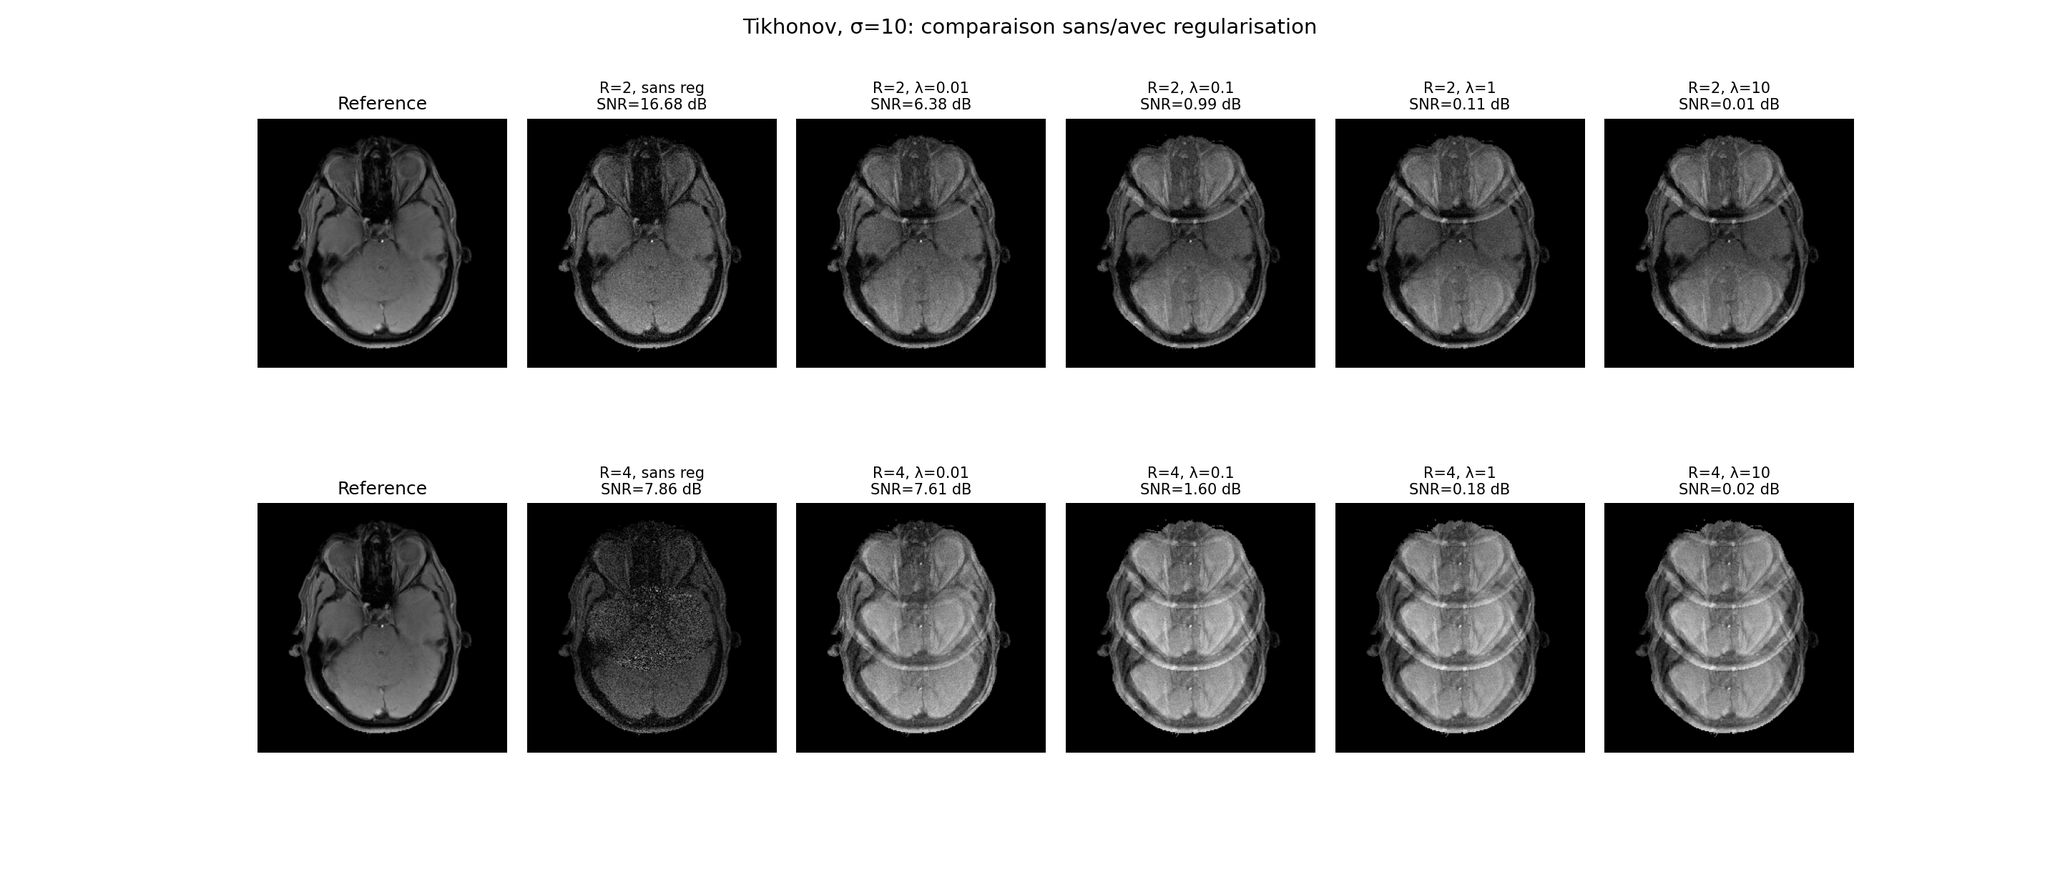
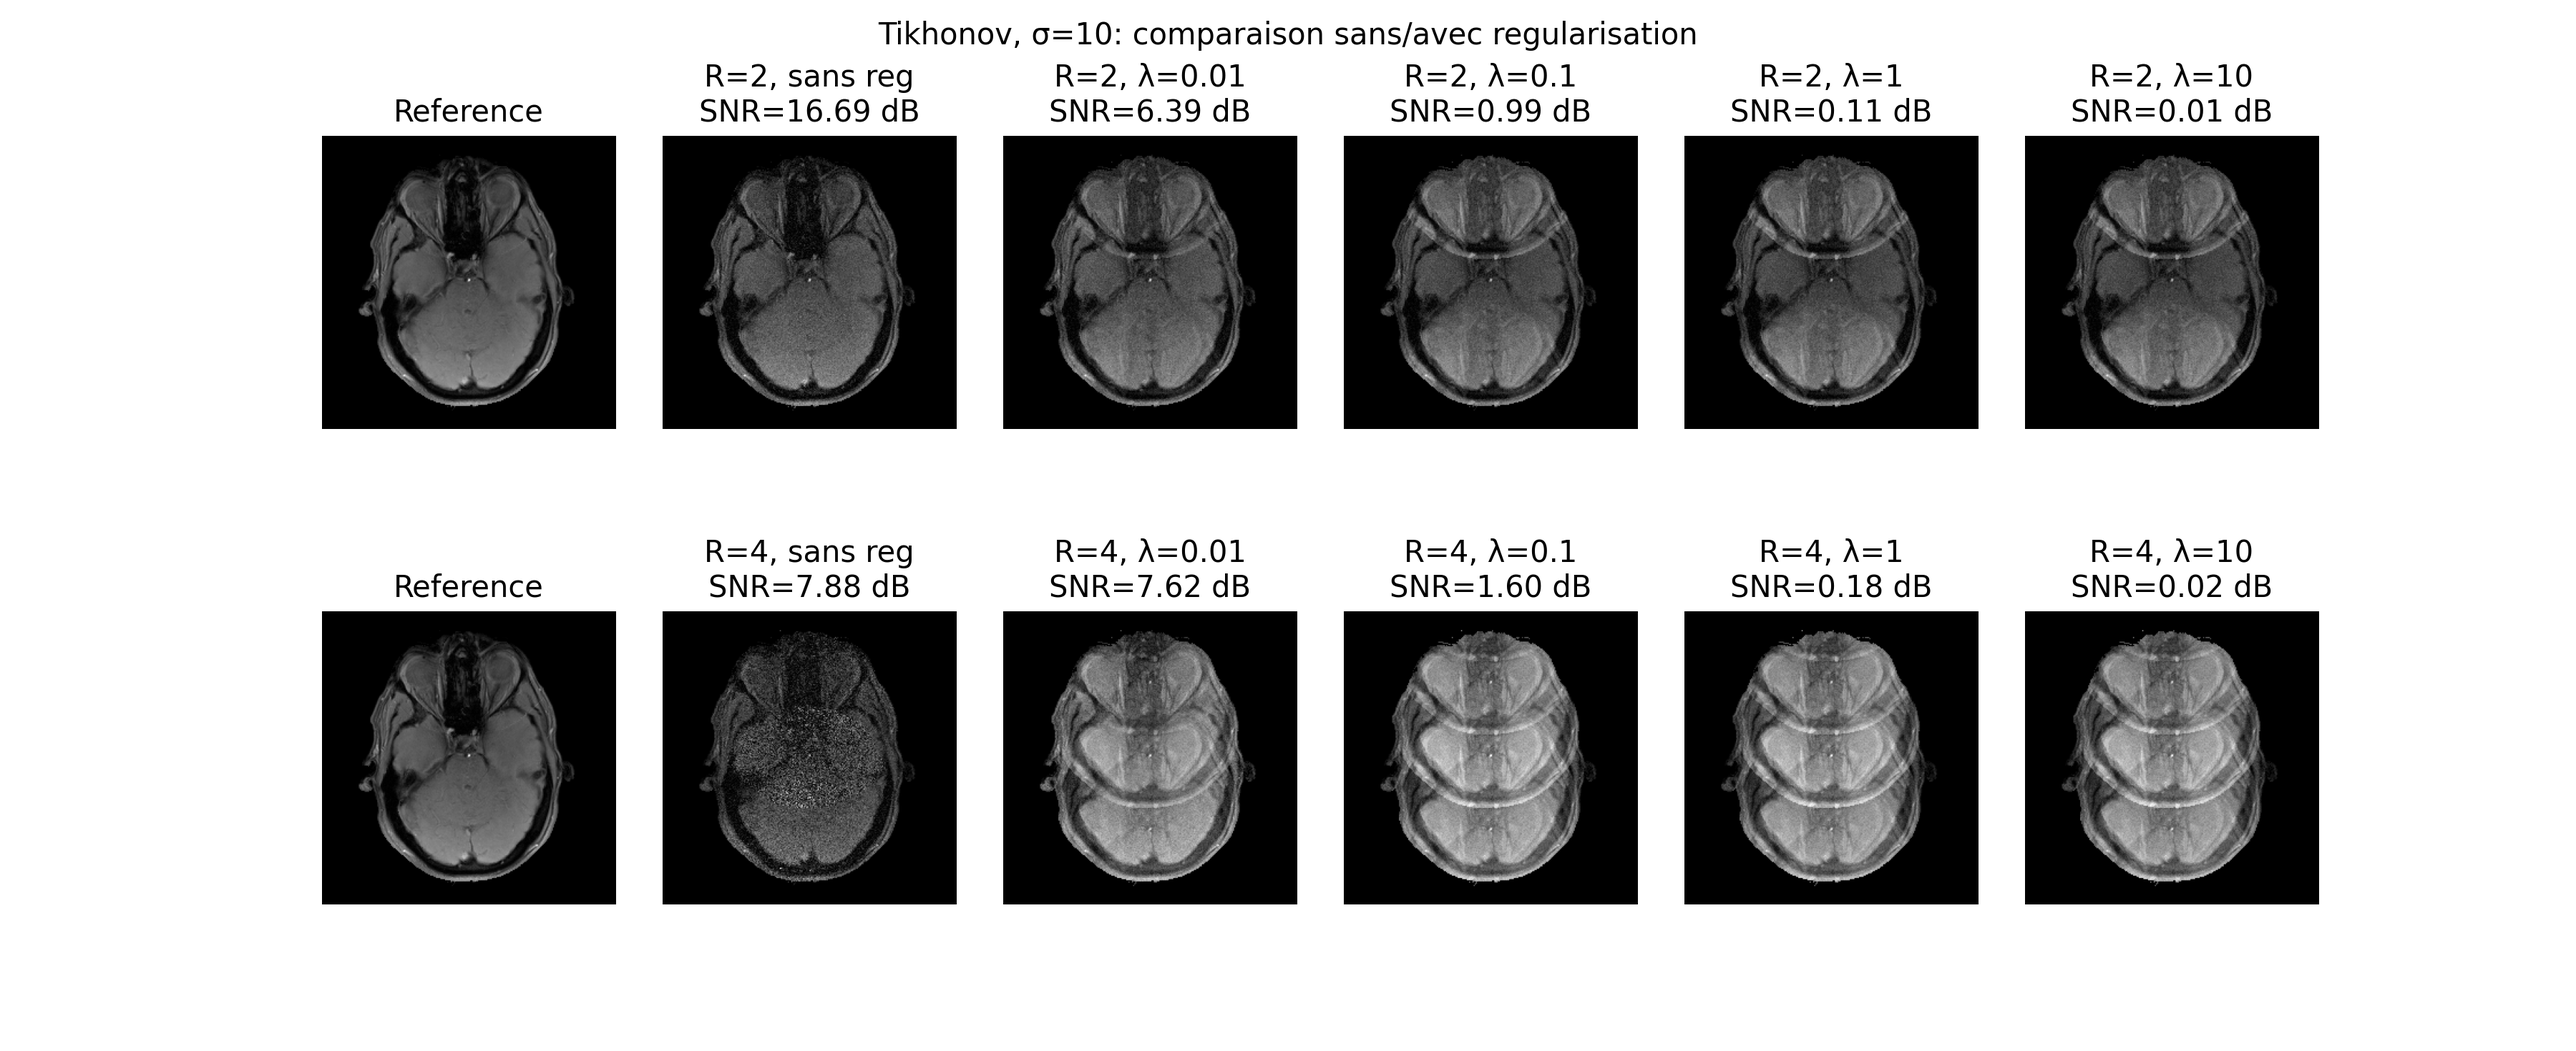
q4 bis

Changed region(s): [[0.125, 0.0, 0.9062, 0.4325], [0.125, 0.4943, 0.9062, 0.865]]

diff --git a/main.py b/main.py
@@ -36,17 +36,17 @@ R = 2
 noise_levels = [5, 10, 20, 30]
 results_q1 = {}
 
-fig, axes = plt.subplots(1, len(noise_levels), figsize=(15, 4))
+fig, axes = plt.subplots(1, len(noise_levels), figsize=(18, 5))
 
 for idx, sigma in enumerate(noise_levels):
     reduced_FoV = pMRI_simulator(S, ref, sigma, R)
     results_q1[sigma] = reduced_FoV
     
     im = axes[idx].imshow(np.abs(reduced_FoV[:, :, 0]), cmap='gray')
-    axes[idx].set_title(f'σ = {sigma}')
+    axes[idx].set_title(f'σ = {sigma}', fontsize=20, pad=10)
     axes[idx].axis('off')
 
-plt.suptitle('Différents niveaux de bruit (R=2)', fontsize=14)
+plt.suptitle('Différents niveaux de bruit (R=2)', fontsize=20)
 plt.tight_layout()
 plt.savefig('q1_reduced_FoV_noise_comparison.png', dpi=150, bbox_inches='tight')
 
@@ -62,23 +62,23 @@ plt.savefig('q1_reduced_FoV_noise_comparison.png', dpi=150, bbox_inches='tight')
 R_q2 = 4
 results_q2 = {}
 
-fig, axes = plt.subplots(2, len(noise_levels), figsize=(18, 8.5))
+fig, axes = plt.subplots(2, len(noise_levels), figsize=(20, 9.5))
 
 for idx, sigma in enumerate(noise_levels):
-     reduced_FoV_r4 = pMRI_simulator(S, ref, sigma, R_q2)
-     results_q2[sigma] = reduced_FoV_r4
+    reduced_FoV_r4 = pMRI_simulator(S, ref, sigma, R_q2)
+    results_q2[sigma] = reduced_FoV_r4
 
-     # Top row: R=2 (from question 1)
-     im_r2 = axes[0, idx].imshow(np.abs(results_q1[sigma][:, :, 0]), cmap='gray')
-     axes[0, idx].set_title(f'R=2, σ={sigma}')
-     axes[0, idx].axis('off')
+    # Top row: R=2 (from question 1)
+    im_r2 = axes[0, idx].imshow(np.abs(results_q1[sigma][:, :, 0]), cmap='gray')
+    axes[0, idx].set_title(f'R=2, σ={sigma}', fontsize=20, pad=10)
+    axes[0, idx].axis('off')
 
-     # Bottom row: R=4
-     im_r4 = axes[1, idx].imshow(np.abs(reduced_FoV_r4[:, :, 0]), cmap='gray')
-     axes[1, idx].set_title(f'R=4, σ={sigma}')
-     axes[1, idx].axis('off')
+    # Bottom row: R=4
+    im_r4 = axes[1, idx].imshow(np.abs(reduced_FoV_r4[:, :, 0]), cmap='gray')
+    axes[1, idx].set_title(f'R=4, σ={sigma}', fontsize=20, pad=10)
+    axes[1, idx].axis('off')
 
-plt.suptitle('Comparaison R=2 vs R=4', fontsize=14)
+plt.suptitle('Comparaison R=2 vs R=4', fontsize=20)
 plt.tight_layout()
 plt.savefig('q2_r2_vs_r4_noise_comparison.png', dpi=150, bbox_inches='tight')
 
@@ -93,7 +93,7 @@ Nc = S.shape[2]
 snr_r2 = []
 snr_r4 = []
 
-fig, axes = plt.subplots(2, len(noise_levels), figsize=(16, 7))
+fig, axes = plt.subplots(2, len(noise_levels), figsize=(20, 9.5))
 
 for idx, sigma in enumerate(noise_levels):
     psi = (sigma ** 2) * np.eye(Nc)
@@ -107,15 +107,15 @@ for idx, sigma in enumerate(noise_levels):
     snr_r4.append(snr4)
 
     axes[0, idx].imshow(np.abs(reconstructed_r2), cmap='gray')
-    axes[0, idx].set_title(f'R=2, σ={sigma}\nSNR={snr2:.2f} dB', fontsize=11, pad=6)
+    axes[0, idx].set_title(f'R=2, σ={sigma}\nSNR={snr2:.2f} dB', fontsize=22, pad=12)
     axes[0, idx].axis('off')
 
     axes[1, idx].imshow(np.abs(reconstructed_r4), cmap='gray')
-    axes[1, idx].set_title(f'R=4, σ={sigma}\nSNR={snr4:.2f} dB', fontsize=11, pad=6)
+    axes[1, idx].set_title(f'R=4, σ={sigma}\nSNR={snr4:.2f} dB', fontsize=22, pad=12)
     axes[1, idx].axis('off')
 
-plt.suptitle('Reconstructions et SNR (R=2 vs R=4)', fontsize=14, y=0.97)
-fig.subplots_adjust(top=0.90, hspace=0.18, wspace=0.05)
+plt.suptitle("", fontsize=14, y=0.97)
+fig.subplots_adjust(top=0.90, hspace=0.28, wspace=0.08)
 plt.savefig('q3_reconstruction_r2_vs_r4.png', dpi=150)
 
 plt.figure(figsize=(7, 4))
@@ -157,35 +157,35 @@ for lam in lam_values:
     snr_lam_r4.append(SignalToNoiseRatio(ref, np.abs(rec_r4_lam)))
 
 cols = 2 + len(lam_values)
-fig, axes = plt.subplots(2, cols, figsize=(3.2 * cols, 8.2))
+fig, axes = plt.subplots(2, cols, figsize=(4.0 * cols, 9.8))
 
 axes[0, 0].imshow(np.abs(ref), cmap='gray')
-axes[0, 0].set_title('Reference')
+axes[0, 0].set_title('Reference', fontsize=20, pad=10)
 axes[0, 0].axis('off')
 
 axes[1, 0].imshow(np.abs(ref), cmap='gray')
-axes[1, 0].set_title('Reference')
+axes[1, 0].set_title('Reference', fontsize=20, pad=10)
 axes[1, 0].axis('off')
 
 axes[0, 1].imshow(np.abs(baseline_r2), cmap='gray')
-axes[0, 1].set_title(f'R=2, sans reg\nSNR={snr_baseline_r2:.2f} dB', fontsize=10)
+axes[0, 1].set_title(f'R=2, sans reg\nSNR={snr_baseline_r2:.2f} dB', fontsize=20, pad=10)
 axes[0, 1].axis('off')
 
 axes[1, 1].imshow(np.abs(baseline_r4), cmap='gray')
-axes[1, 1].set_title(f'R=4, sans reg\nSNR={snr_baseline_r4:.2f} dB', fontsize=10)
+axes[1, 1].set_title(f'R=4, sans reg\nSNR={snr_baseline_r4:.2f} dB', fontsize=20, pad=10)
 axes[1, 1].axis('off')
 
 for i, lam in enumerate(lam_values):
     axes[0, i + 2].imshow(np.abs(recon_lam_r2[i]), cmap='gray')
-    axes[0, i + 2].set_title(f'R=2, λ={lam}\nSNR={snr_lam_r2[i]:.2f} dB', fontsize=10)
+    axes[0, i + 2].set_title(f'R=2, λ={lam}\nSNR={snr_lam_r2[i]:.2f} dB', fontsize=20, pad=10)
     axes[0, i + 2].axis('off')
 
     axes[1, i + 2].imshow(np.abs(recon_lam_r4[i]), cmap='gray')
-    axes[1, i + 2].set_title(f'R=4, λ={lam}\nSNR={snr_lam_r4[i]:.2f} dB', fontsize=10)
+    axes[1, i + 2].set_title(f'R=4, λ={lam}\nSNR={snr_lam_r4[i]:.2f} dB', fontsize=20, pad=10)
     axes[1, i + 2].axis('off')
 
-fig.suptitle('Tikhonov, σ=10: comparaison sans/avec regularisation', fontsize=14, y=0.98)
-fig.subplots_adjust(top=0.90, hspace=0.24, wspace=0.08)
+fig.suptitle('Tikhonov, σ=10: comparaison sans/avec regularisation', fontsize=20, y=0.98)
+fig.subplots_adjust(top=0.90, hspace=0.34, wspace=0.16)
 plt.savefig('q4_tikhonov_reconstructions.png', dpi=150)
 
 plt.figure(figsize=(7.2, 4.2))
